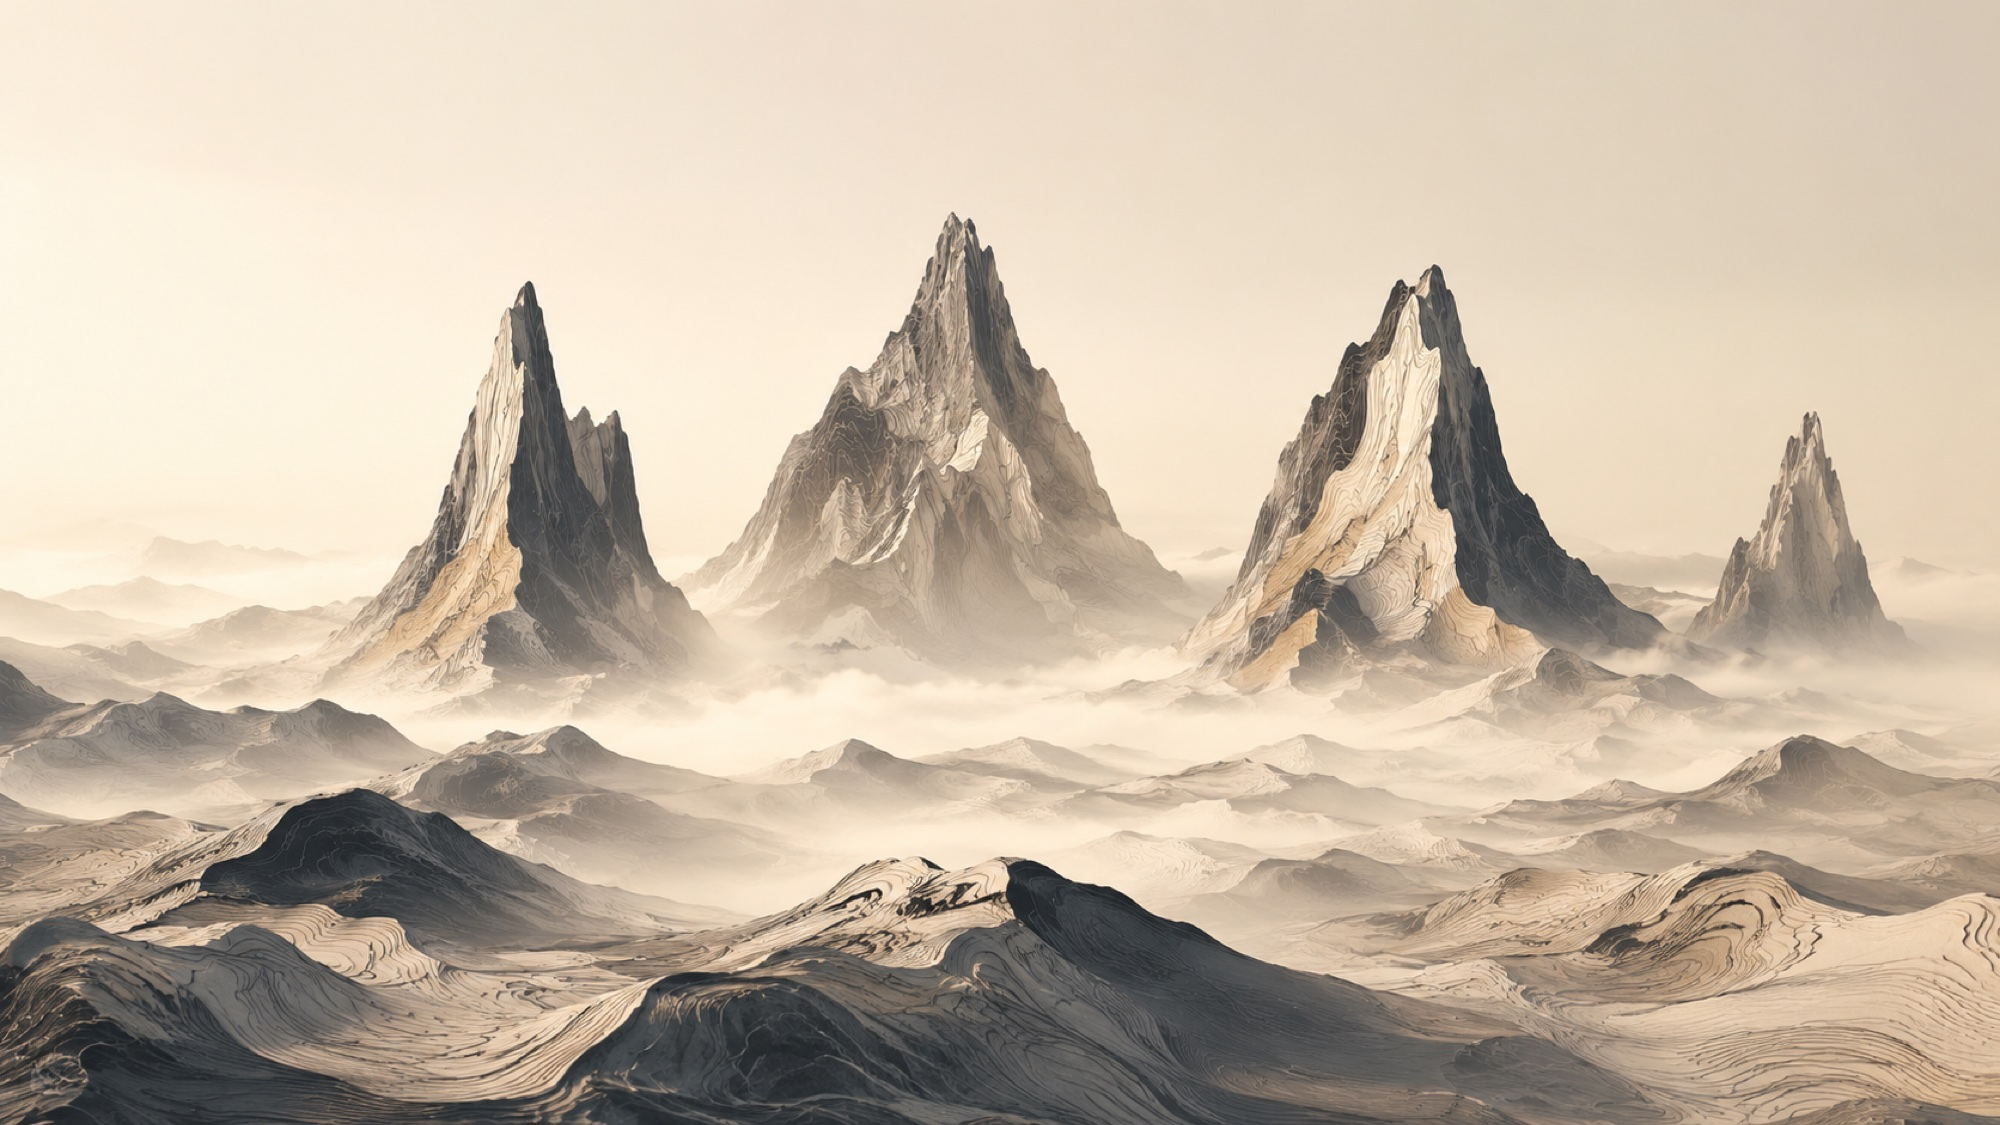
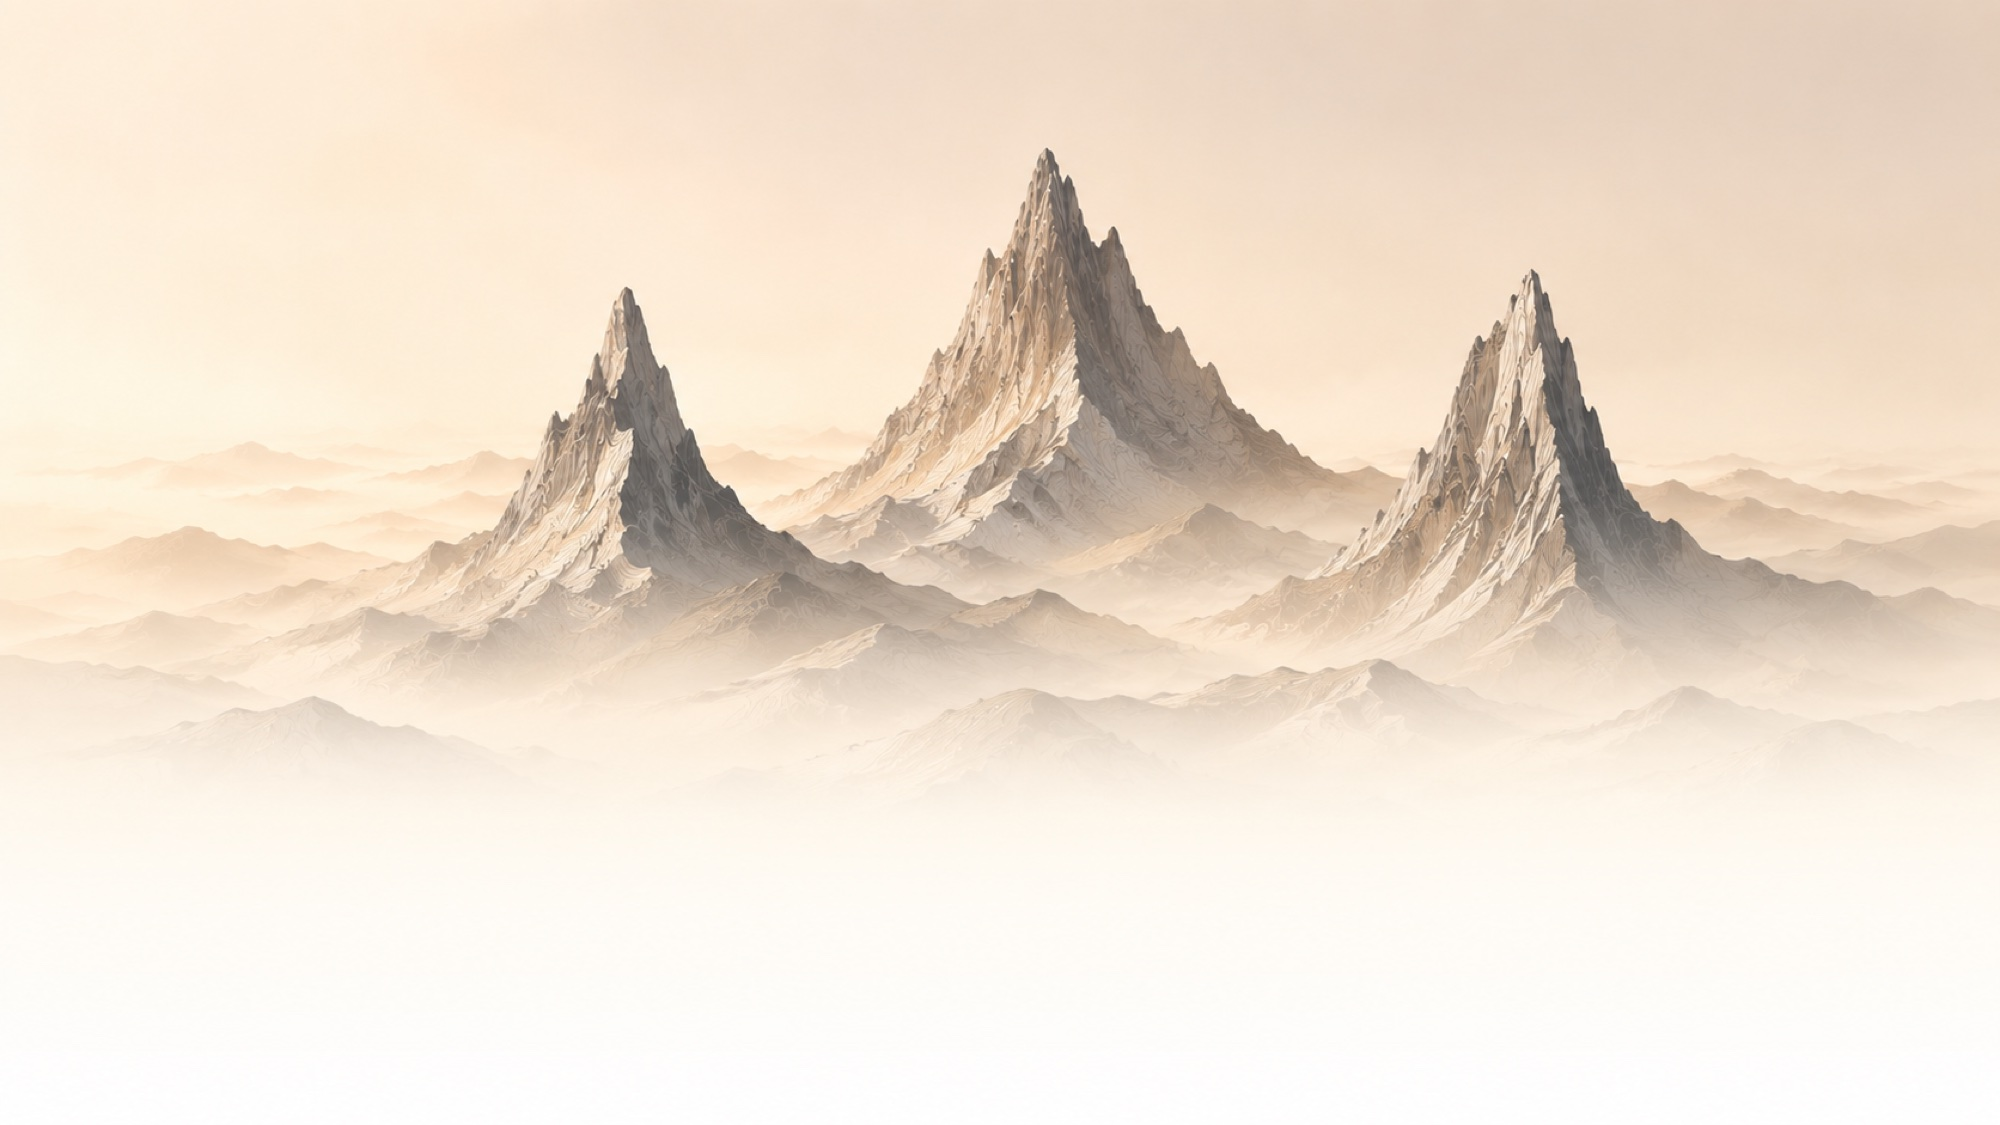
wissen: neues Marktlogik-Bild mit eingebautem Bottom-Fade
- Bild v2: cleaner Fade zu Cream-Weiß im unteren Drittel bereits im Asset
- CSS-Overlay drastisch reduziert (45%→0% von oben nach unten)
- Filesize fast halbiert: 263 KB Desktop / 69 KB Mobile (vorher 486 / 144)
- Section-Übergang zur Profit-Stack-Section jetzt nativ seamless

diff --git a/wissen/index.html b/wissen/index.html
@@ -383,31 +383,22 @@ footer .footer-links a:hover{color:var(--accent)}
 }
 
 /* ============= MARKTLOGIK SECTION · custom background ============= */
+/* Bild bringt eigenen Bottom-Fade-Zu-Weiß mit — Overlay nur dezent für Text-Lesbarkeit oben */
 .bb-section-marktlogik{
   background-image:
-    linear-gradient(180deg,
-      rgba(255,255,255,0.72) 0%,
-      rgba(255,255,255,0.48) 32%,
-      rgba(255,255,255,0.48) 60%,
-      rgba(255,255,255,0.88) 88%,
-      rgba(255,255,255,1) 100%),
+    linear-gradient(180deg, rgba(255,255,255,0.45) 0%, rgba(255,255,255,0.2) 45%, rgba(255,255,255,0) 75%),
     url('/assets/img/wissen-marktlogik-2000.jpg');
   background-size:cover;
-  background-position:center 28%;
+  background-position:center top;
   background-repeat:no-repeat;
   background-attachment:scroll;
 }
 @media (max-width:780px){
   .bb-section-marktlogik{
     background-image:
-      linear-gradient(180deg,
-        rgba(255,255,255,0.8) 0%,
-        rgba(255,255,255,0.56) 38%,
-        rgba(255,255,255,0.56) 64%,
-        rgba(255,255,255,0.9) 90%,
-        rgba(255,255,255,1) 100%),
+      linear-gradient(180deg, rgba(255,255,255,0.55) 0%, rgba(255,255,255,0.28) 50%, rgba(255,255,255,0) 80%),
       url('/assets/img/wissen-marktlogik-1100.jpg');
-    background-position:center;
+    background-position:center top;
   }
 }
 </style>